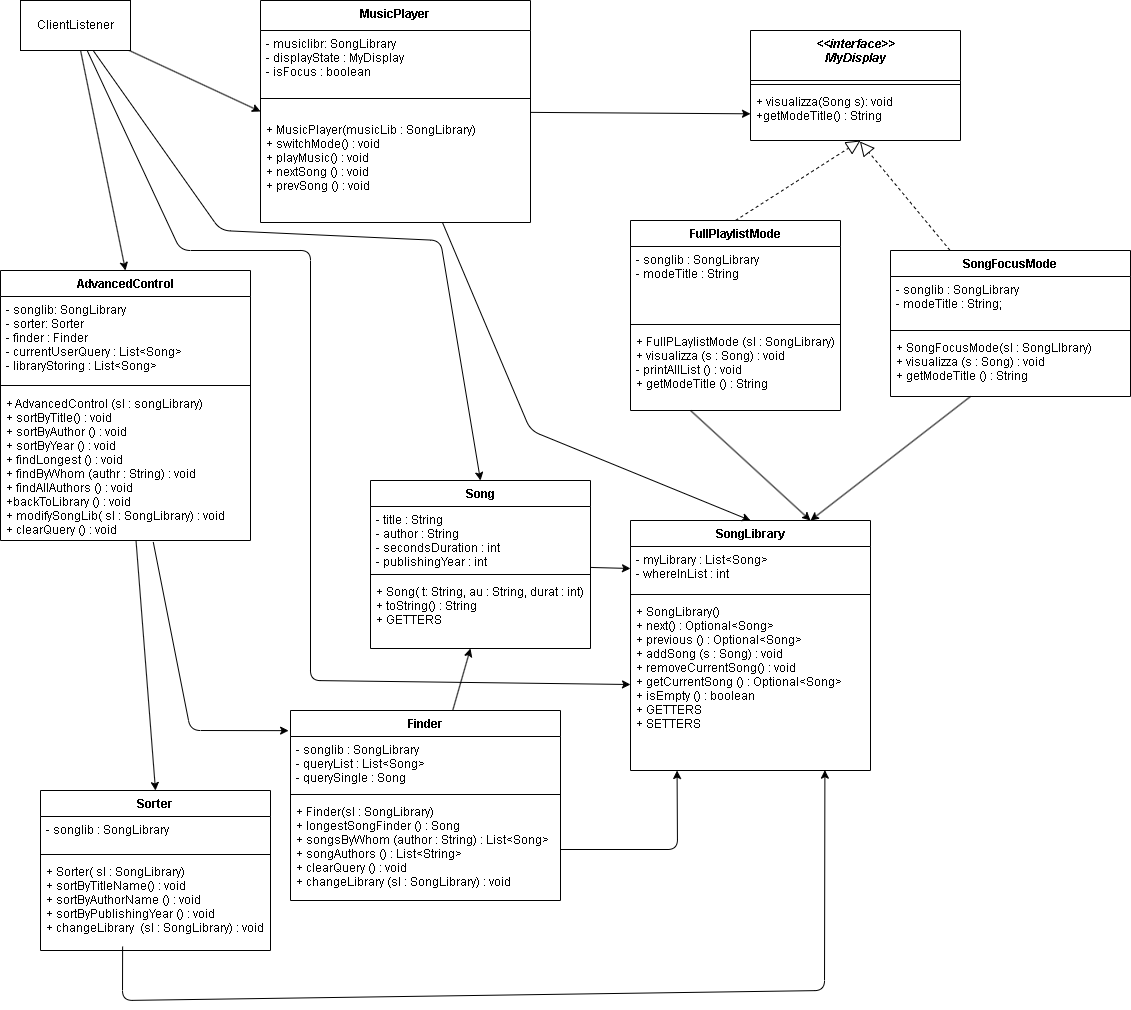
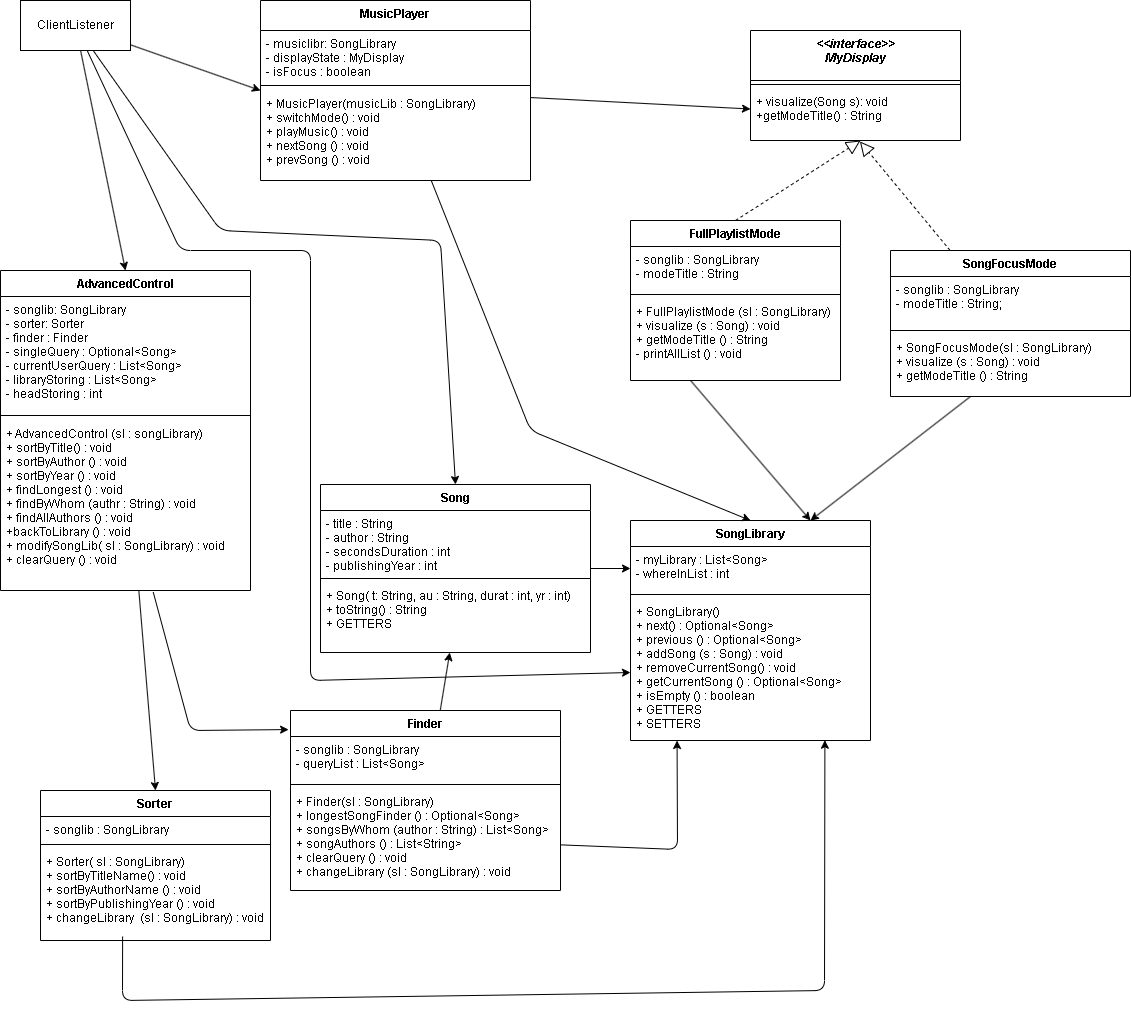
Update UML Diagram

diff --git a/README.md b/README.md
@@ -1,3 +1,5 @@
 # MusicPlayer - State
 
 This software simulates the operation of a music player - it implements the **Design Pattern State** in visualizing how the playlist is shown to the user, and the **Design Pattern Façade** by offering the user an interface to interact with the playlist itself, which allows the user to sort the playlist and make song queries; which are implemented through **Streams**. 
+  
+![UML Class Diagram](./MusicPlayer.png)
